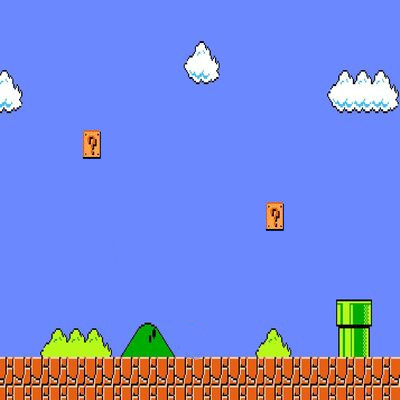
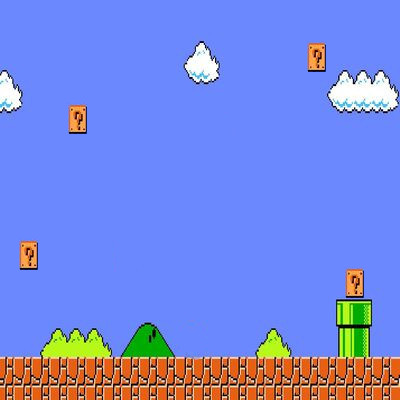
check blocks level pro-positions

diff --git a/frontend/app/game/levels/pro/level_pro.js b/frontend/app/game/levels/pro/level_pro.js
@@ -1,3 +1,7 @@
+let state_number = {
+    num: 0,
+    direction: Array()
+}
 levels_pro = (scored, map=undefined) => { //IN THIS function apply a switch case to push differents level. IF score is 2, 4, 5... the velocity augment
     //and the game is more difficult
     console.log(scored);
@@ -36,12 +40,84 @@ levels_pro = (scored, map=undefined) => { //IN THIS function apply a switch case
 
 map_pro = (url) => {
     //file:///C:/Users/USUARIO/Desktop/2DAW/FRONTEND/JUEGO%20SNAKE/frontend/assets/images/pro/fondo3_pro.jpg
-    let number = random_n();
-    let prueba = url.slice(0, -4) + number +"." + url.slice(-3);
+    state_number.num = random_n();
+    let prueba = url.slice(0, -4) + state_number.num +"." + url.slice(-3);
+    //let prueba = url.slice(0, -4) + "1." + url.slice(-3);
     let bcg2 = document.getElementById('miCanvas');
     bcg2.style.backgroundImage = 'url("'+prueba+'")';
+    console.log(state_number.num)
 }
 
 random_n = () => {
-    return parseInt(Math.random() * 11)
+    return parseInt(Math.random() * 5);
 } 
+
+blocks = () => {
+    const position_array = Array();
+    console.log("level_pro")
+    if (state_number.num === 0) {
+        //MAPA 1
+        position_array.push("13_8", "13_9", "14_9", "14_8","15_9","15_8",
+                            "20_26", "20_27", "20_28", "21_26","21_27", "21_28"
+                            ,"22_26", "22_27", "22_28")
+    }else if(state_number.num === 1) {
+        //MAPA 2
+        position_array.push("10_7","11_7","12_7","10_8","11_8","12_8", "24_2", 
+                            "25_2", "26_2", "24_3", "25_3", "26_3"  ,"27_34", 
+                            "28_34", "29_34", "27_35", "28_35", "29_35", "4_31"
+                            , "5_31", "6_31", "4_32", "5_32", "6_32")
+    }else if(state_number.num === 2) {
+        //MAPA 3
+        position_array.push("3_6","4_6","5_6","3_7","4_7","5_7", "1_20", "2_20",
+                            "3_20", "1_19", "2_19", "3_19", "2_28", "3_28", "4_28",
+                            "2_29", "3_29", "4_29", "15_31", "16_31", "17_31",
+                            "15_32", "16_32", "17_32", "20_31", "21_31", "22_31",
+                            "20_32", "21_32", "22_32", "26_35", "27_35", "28_35",
+                            "26_36", "27_36", "28_36", "32_20","33_20", "34_20",
+                            "32_21","33_21", "34_21", "36_33", "37_33", "38_33",
+                            "36_34", "37_34", "38_34", "36_8", "37_8", "38_8",
+                            "36_9", "37_9", "38_9", "25_6", "26_6", "27_6",
+                            "25_7", "26_7", "27_7", "17_4", "18_4", "19_4",
+                            "17_5", "18_5", "19_5", "11_10", "12_10", "13_10",
+                            "11_11", "12_11", "13_11", "17_22", "18_22", "19_22",
+                            "17_23", "18_23", "19_23")
+    }else if(state_number.num === 3) {
+        //MAPA 4
+        position_array.push("3_5","4_5","2_6","3_6","4_6","5_6", "3_7", "4_7",
+                            "5_7", "4_28", "5_28", "6_28", "7_28", "5_27", "6_27",
+                            "5_29", "6_29", "7_29", "16_29", "17_29", "15_30", "16_30", 
+                            "17_30", "18_30", "27_34", "28_34", "29_34", "27_35", "28_35"
+                            ,"29_35","27_36", "28_36", "29_36", "33_27", "34_27", "35_27",
+                            "33_28", "34_28", "35_28", "33_1", "34_1", "35_1",
+                            "33_2", "34_2", "35_2", "33_3", "34_3", "35_3", "33_13", "34_14", "35_15",
+                            "33_13", "34_14", "35_15", "33_13", "34_14", "35_15", "16_7","17_7"
+                            ,"18_7", "19_7", "16_8","17_8" ,"18_8", "19_8", "9_13", "10_13", "11_13"
+                            ,"12_13", "9_14", "10_14", "11_14" ,"12_14", "11_12", "10_12", "23_19"
+                            ,"24_19", "25_19", "26_19", "23_20" ,"24_20", "25_20", "26_20")
+    }else if(state_number.num === 4) {
+        //MAPA 5
+        position_array.push("2_12", "3_12", "4_12", "2_13", "3_13", "4_13", "3_25", "4_25", "5_25",
+                            "3_26", "4_26", "5_26", "3_27", "4_27", "5_27", "3_28", "4_28", "5_28",
+                            "17_30", "18_30", "19_30", "17_31", "18_31", "19_31", "28_28", "29_28", "30_28",
+                            "28_29", "29_29", "30_29", "28_30", "29_30", "30_30", "35_35", "36_35", "37_35"
+                            ,"35_36", "36_36", "37_36", "35_37", "36_37", "37_37", "32_3", "33_3", "34_3",
+                            "35_3", "32_4", "33_4", "34_4", "35_4", "32_5", "33_5", "34_5", "35_5", "28_18",
+                            "29_18", "30_18", "31_18", "28_19", "29_19", "30_19", "31_19", "10_17", "11_17",
+                            "12_17", "13_17", "10_18", "11_18", "12_18", "13_18", "23_5", "24_5", "25_5", 
+                            "23_6", "24_6", "25_6", "23_7", "24_7", "25_7", "8_6", "9_6", "10_6", "11_6",
+                            "8_7", "9_7", "10_7", "11_7")
+    }
+       
+    let snake = snake_state.ball[0];
+    let died = snake.x + "_" + snake.y;
+    for (let i = 0; i < position_array.length; i++) {
+        if (died === position_array[i] && snake_state.level === "PRO") {
+            return true;
+        }
+        if (random_number() === position_array[i]) {
+            console.log("PRUEBAAAAAAAAAA")
+        }
+    }
+    state_number.direction = position_array; 
+    
+}

diff --git a/frontend/app/game/snake_game.js b/frontend/app/game/snake_game.js
@@ -40,6 +40,7 @@ let snake_state = { //snake_state, define the values of snake, ball, direction, 
 random_number = (key) => {
     switch (key) {
         case 1:
+            //return parseInt(Math.random() * board1) + "_" +parseInt(Math.random() * board2);
             return {
                 x: parseInt(Math.random() * board1),
                 y: parseInt(Math.random() * board2)
@@ -58,7 +59,7 @@ random_number = (key) => {
 
 
 //FUNCTION GAME_SNAKE, this function have
-game_snake = () => {
+game_snake = async () => {
     const headds = snake_state.ball[0]; //DECLARED THE VARIABLE headds, to define ball direction.
     const dirx = snake_state.direction.x; //DECLARED THE VARIABLE dirx, to define direction X in the board canvas.
     const diry = snake_state.direction.y; //DECLARED THE VARIABLE diry, to define direction Y in the board canvas.
@@ -66,7 +67,7 @@ game_snake = () => {
     let interval = snake_state.velocity; //DECLARED THE VARIABLE interval, to define snake velocity
 
     let score = (
-        headds.x === snake_state.chan.x && headds.y === snake_state.chan.y  //THIS DECLARED score, WHEN THE SNAKE DIRECTION IS THE SAME THAN THE DIRECTION OF THE BALL. (SNAKE EAT A BALL) 
+        await headds.x === snake_state.chan.x && headds.y === snake_state.chan.y  //THIS DECLARED score, WHEN THE SNAKE DIRECTION IS THE SAME THAN THE DIRECTION OF THE BALL. (SNAKE EAT A BALL) 
     );
 
     if (snake_state.runSnake === run_game) {  //IF THE GAME IS ON:
@@ -82,7 +83,7 @@ game_snake = () => {
         }
     }
 
-    if (colision()) { //IF THE SNAKES TOUCHES THE WALL, COLISION()
+    if (colision() || blocks()) { //IF THE SNAKES TOUCHES THE WALL, COLISION()
         //IF HAVE LOCALSTORAGE(the user muted the music on the icon), THE AUDIO IS MUTED.
         if (localStorage.getItem("MUTED")) {
             music_colision.pause();
@@ -128,6 +129,7 @@ game_snake = () => {
         snake_state.chan = random_number(1);//VARIABLE CHAN TO RANDOM NUMBER, TO BALL APPEAR IN ANOTHER PLACE OF THE BOARD
         snake_state.chan1 = random_number(2);
         
+        console.log()
         console.log(snake_state.chan1);
         let puntuation = document.getElementById('puntuation2'); //GET THE PUNTUATION ACTUAL TO AUGMENT THE NEW SCORE +1
         scored++; //AUGMENT SCORED +1
@@ -138,7 +140,8 @@ game_snake = () => {
         }else if(snake_state.level === "ADVANCED") {
             levels_adv(scored); 
         }else if (snake_state.level === "PRO") {
-            levels_pro(scored, snake_state.url_map);    
+            levels_pro(scored, snake_state.url_map);
+            blocks();    
         }
 
          //CALL THE FUNCTION LEVEL IN THE NEW PUNTUATION TO PASS THE LEVEL AND THE GAME IS MORE
@@ -150,6 +153,7 @@ game_snake = () => {
     }  
     window.requestAnimationFrame(square_draw); //FUNCTION requestAnimationFrame, to move the game
     setTimeout(game_snake, interval);
+    
 }
 
 colision = () => { //FUNCTION COLISION, when the SNAKE touch the wall
@@ -198,7 +202,7 @@ square_draw = () => { //draw square.
         const {x, y} = snake_state.ball[i];
         i++;
         snake_draw("blue", x, y);
-        // console.log(x,y)
+        console.log(x,y)
     }
     const {x, y} = snake_state.chan;
     snake_draw("red", x, y);
@@ -244,18 +248,19 @@ display = () => { //Display disponible in the game
     let display_infor = document.getElementById("infor");
     display_infor.style.display = "none";
     console.log(snake_state.level)
-    // if (snake_state.level === ""){
-    //     document.getElementById('start').disabled = true;
-    //     document.getElementById('validation').style.display = "";
-    // }else {
-    //     document.getElementById('start').disabled = false;
-    //     document.getElementById('validation').style.display = "none";
-    // }
+    if (snake_state.level === ""){
+        document.getElementById('start').disabled = true;
+        document.getElementById('validation').style.display = "";
+    }else {
+        document.getElementById('start').disabled = false;
+        document.getElementById('validation').style.display = "none";
+    }
     // let user = document.getElementById('username1');
     // console.log(user.textContent)
     // if (user.textContent == 0) {
     //     let start = document.getElementById('start').disabled = true;
     // }
+    //blocks();
 }
 
 choose_map = (type) => { //To choose the map, the user can choose the map in different photos or url files
@@ -351,4 +356,3 @@ start_game = () => { //FUNCTION START GAME, get differents elemnt to apply chang
 //CALL TWO FUNCTIONS
 choose_map();
 display();
-

diff --git a/frontend/app/game/style.css b/frontend/app/game/style.css
@@ -1,6 +1,7 @@
 body {
     background-color: rgb(215, 215, 215);
-    margin: 64px;
+    margin: 60px;
+    margin-top: -40px;
     text-align: center; 
 }
 
